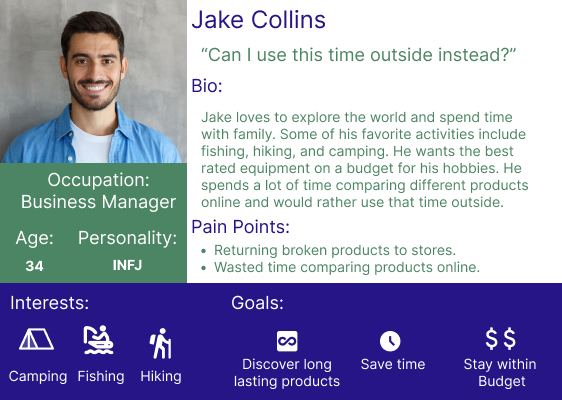
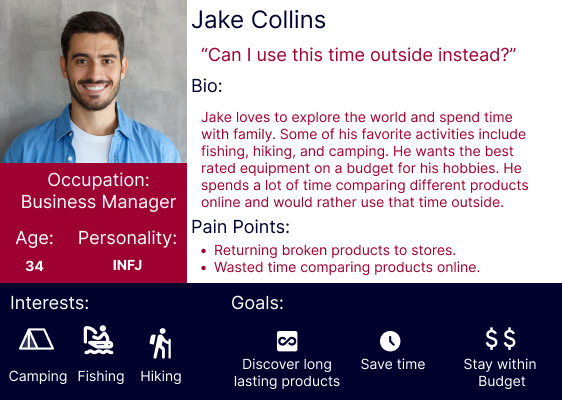
updated styling for case study

diff --git a/src/Pages/ApparelDesigns.js b/src/Pages/ApparelDesigns.js
@@ -73,39 +73,39 @@ padding: '0px'
 }
 
 const age = {
-  border: '1px solid #71B48D'
+  border: '1px solid #9E0031'
 }
 
 const gender = {
-  border: '1px solid #71B48D'
+  border: '1px solid #9E0031'
 }
 
 const ageRange = {
   padding: '50px 70px 20px 70px',
   textAlign: 'center', 
   fontSize: '32px',
-  color: '#71B48D',
+  color: '#9E0031',
 }
 
 const ageNumbers = {
   padding: '5px 70px',
   textAlign: 'center',
   fontSize: '36px',
-  color: '#71B48D',
+  color: '#9E0031',
 }
 
 const genderTitle = {
   padding: '50px 70px 20px 70px',
   textAlign: 'center',
   fontSize: '32px',
-  color: '#71B48D',
+  color: '#9E0031',
 }
 
 const genderMajority = {
   padding: '5px 70px',
   textAlign: 'center',
   fontSize: '36px',
-  color: '#71B48D',
+  color: '#9E0031',
 }
 
 
@@ -326,7 +326,7 @@ const paragraphBLink = {
   fontSize: '20px', 
   fontFamily: 'Merriweather',
   fontWeight: '300', 
-  color: '#71B48D'
+  color: '#9E0031'
 
 
 }
